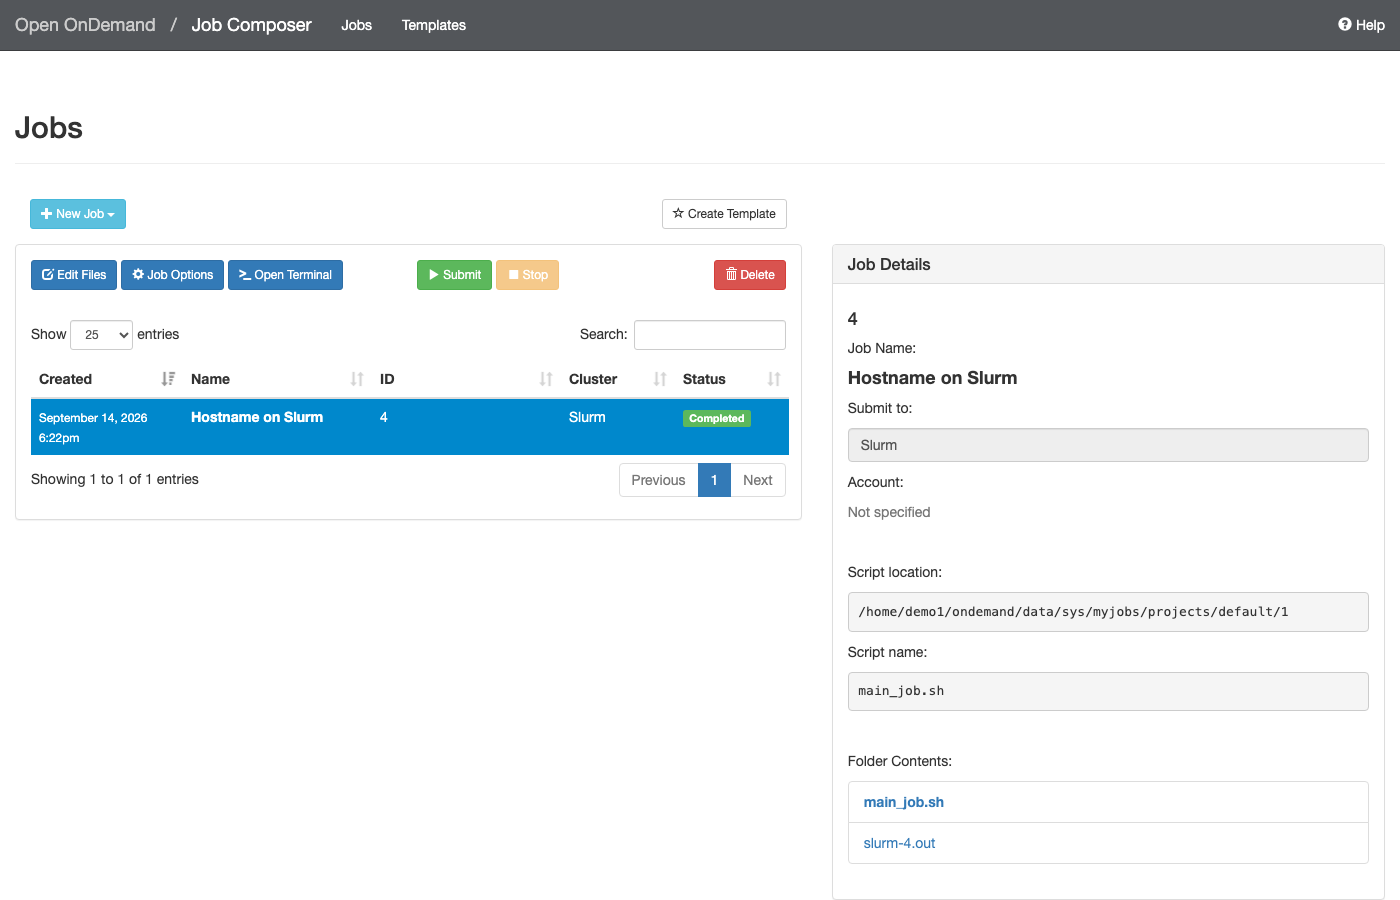
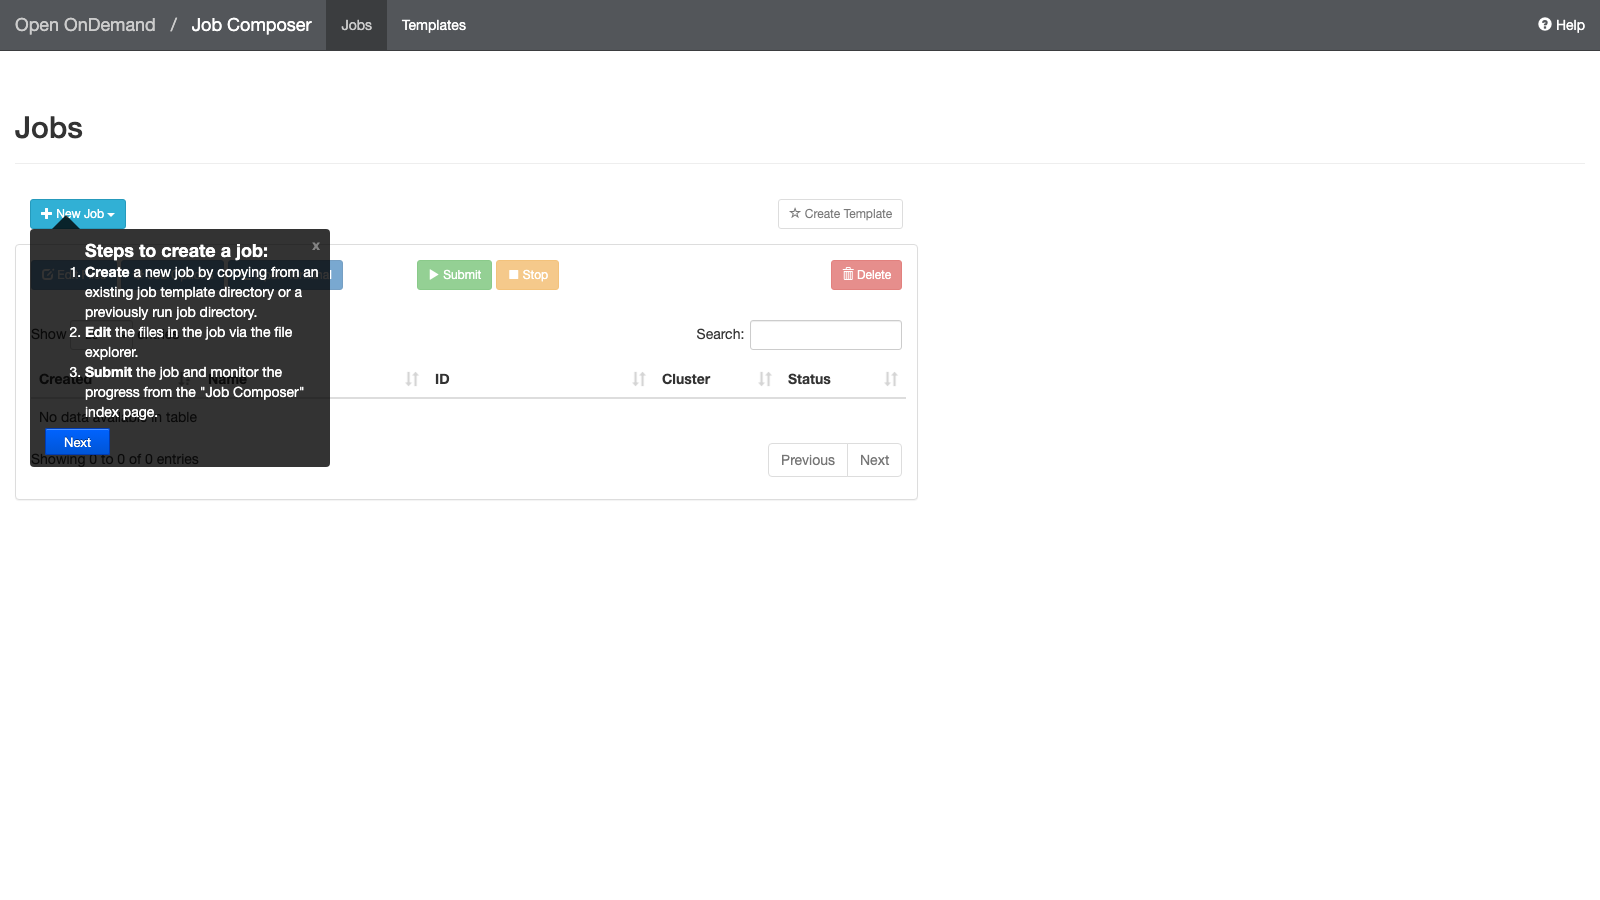
Open OnDemand: Service Inputs and Job Composer screenshots of the Slurm design, shorter Networks section
(cherry picked from commit 702f2a1c0138c3453ba6f938782f5bbe8e530582)

diff --git a/content/platform_services/open_ondemand/configuration.md b/content/platform_services/open_ondemand/configuration.md
@@ -40,11 +40,11 @@ These attributes never appear in the wizard, so set them in the `template_conten
 |---|---|---|
 | `ONEAPP_WORKER_IDLE_SECONDS` | `600` | Seconds the oldest worker stays without a job before it drains its Slurm node and the pool loses it. The worker role reads it. |
 | `ONEAPP_WORKER_DRAIN_SECONDS` | `600` | Seconds a drained worker waits for OneFlow to remove it before it returns its node to service. The worker role reads it. |
-| `ONEAPP_POOL_RANGE` | derived | Address range the portal accepts workers from, as `first-last`, which also bounds the number of Slurm nodes. Inside a service the portal derives it from its compute interface, the whole /24 around its address, so set it only for a compute network larger than a /24 or for a portal outside a OneFlow service. The range has to stay inside one /24, so on a larger compute network reserve a /24 slice of it for the workers and give that slice here. The portal role reads it. |
+| `ONEAPP_POOL_RANGE` | derived | Address range the portal accepts workers from, as `first-last`, which also bounds the number of Slurm nodes. Inside a service the portal derives it from its compute interface, the whole /24 around its address, so set it only for a compute network larger than a /24 or for a portal outside a OneFlow service. The range has to stay inside one /24, because a session publishes the address of the worker that starts with the first three octets of the range, so on a larger compute network reserve a /24 slice of it for the workers and give that slice here. The portal role reads it. |
 | `ONEAPP_SLURM_STATE_EXPORT` | `/export/slurm` | Export of the storage role that keeps the state of the Slurm controller, the munge key and the accounting dumps. The portal role mounts it. |
 | `ONEAPP_SLURM_DEF_MEM_PER_CPU` | `1024` | Memory in MB a job gets per core when it asks for none. The portal role reads it. |
 | `ONEAPP_SLURM_CONTROLLER_ENABLED` | `NO` | Add a second Slurm cluster of the site for batch jobs, see [An External Slurm Cluster](#an-external-slurm-cluster). The portal role reads it. |
-| `ONEAPP_SLURM_CONTROLLER_HOST` | empty | Compute address of that controller, required when the switch is on. The portal role reads it. |
+| `ONEAPP_SLURM_CONTROLLER_HOST` | empty | Address or host name of that controller, required when the switch is on. The portal role reads it. |
 | `ONEAPP_SLURM_TITLE` | `External Slurm` | Name of that cluster in the Job Composer and Active Jobs. The portal role reads it. |
 {.w-100}
 
@@ -54,7 +54,7 @@ The marketplace template gives every VM 2 vCPU and 4 GB of memory, 8 GB for the 
 
 ## Scaling the Worker Pool
 
-The pool scales on its own, see [How the Pool Grows and Shrinks]({{% relref "platform_services/open_ondemand/architecture/#how-the-pool-grows-and-shrinks" %}}). The workers publish `SLURM_PENDING`, the jobs waiting for a worker of their role, and OneFlow adds one VM when it stays above 0 for two periods of 30 seconds. The oldest worker drains its Slurm node once it has been without a job for `ONEAPP_WORKER_IDLE_SECONDS` with nothing pending, publishes `OLDEST_IDLE=1` while the node is drained and empty, and OneFlow removes it after two periods of 60 seconds. `ONEAPP_WORKER_DRAIN_SECONDS` undoes a drain OneFlow has not acted on, and the last worker of a role never drains. Both are [Advanced Attributes](#advanced-attributes) of the worker role. Raise `max_vms` of the worker role in the service template for a pool larger than six. To set the size by hand while the service is `RUNNING` (OneFlow refuses the command during the 300 second cooldown that follows every scale operation):
+The pool scales on its own, see [How the Pool Grows and Shrinks]({{% relref "platform_services/open_ondemand/architecture/#how-the-pool-grows-and-shrinks" %}}). The workers publish `SLURM_PENDING`, the jobs waiting for a worker of their role, and OneFlow adds one VM when it stays above 0 for two periods of 30 seconds. The oldest worker drains its Slurm node once it has been without a job for `ONEAPP_WORKER_IDLE_SECONDS` with nothing pending, publishes `OLDEST_IDLE=1` while the node is drained and empty, and OneFlow removes it after two periods of 60 seconds. `ONEAPP_WORKER_DRAIN_SECONDS` undoes a drain OneFlow has not acted on, and the last worker of a role never drains. Both are [Advanced Attributes](#advanced-attributes) of the worker role. Raise `max_vms` of the worker role in the service template for a pool larger than six. To set the size by hand while the service is `RUNNING` (OneFlow refuses the command during the cooldown that follows every scale operation, 300 seconds after a policy acts and 120 seconds after a scale by hand):
 
 ```shell
 oneflow scale <service_id> worker <cardinality>

diff --git a/content/platform_services/open_ondemand/architecture.md b/content/platform_services/open_ondemand/architecture.md
@@ -32,7 +32,11 @@ Every VM has two network interfaces:
 * **Management network**: reaches OneGate and the Internet. The portal publishes its web interface here, and the storage role downloads the software catalogue through it.
 * **Compute network**: reserved for the service. NFS, LDAP, the Slurm traffic between the controller and the nodes, the proxied sessions and the software cache run on it.
 
-The roles find each other without fixed addresses. OneFlow passes the compute address of the storage role to the portal and the workers, and the compute address of the portal to the workers, and the storage role asks OneGate which VM is the portal. A worker registers itself with the controller at boot, which learns the address of the node from the registration, and a reconciler on the portal deletes every node that no VM of the service claims, so a VM that is not part of the service never keeps a node in the cluster. The portal derives the worker address range from its own compute interface, the whole /24 around its address, which bounds how many nodes the cluster accepts and tells a session which of its addresses to publish, so keep that network reserved for the service. A compute network larger than a /24 needs an explicit `ONEAPP_POOL_RANGE`, described in [Configuration]({{% relref "platform_services/open_ondemand/configuration/#advanced-attributes" %}}).
+No address is fixed in advance. OneFlow hands each role the compute address of the roles it depends on, and the storage role asks OneGate which VM is the portal.
+
+A worker joins the Slurm cluster on its own at boot, and a reconciler on the portal removes the node of any VM that has left the service.
+
+The portal takes the whole /24 around its compute address as the worker range, so keep that network reserved for the service. A larger network needs `ONEAPP_POOL_RANGE`, described in [Configuration]({{% relref "platform_services/open_ondemand/configuration/#advanced-attributes" %}}).
 
 ## How a Session Runs
 
@@ -42,7 +46,7 @@ The roles find each other without fixed addresses. OneFlow passes the compute ad
 4. The application listens on a port of the worker and publishes the compute address of the worker, and the portal proxies the browser to it. Desktops run under a TurboVNC server on the worker and reach the browser through noVNC on the portal.
 5. Deleting the session cancels the job and reaching the session hours ends it, and either way Slurm stops every process of the job, so nothing of the session stays on the worker.
 
-A job is never requeued on another worker, because the browser connection points at the worker that started it. Every job goes through the accounting database, so **Active Jobs** lists the sessions and the **Job Composer** submits batch jobs of your own to the same cluster.
+A job is never requeued on another worker, because the browser connection points at the worker that started it. Every job is recorded in the accounting database, **Active Jobs** lists the sessions and the **Job Composer** submits batch jobs of your own to the same cluster.
 
 ## How the Pool Grows and Shrinks
 

diff --git a/content/platform_services/open_ondemand/operations.md b/content/platform_services/open_ondemand/operations.md
@@ -48,7 +48,7 @@ This terminates the VMs of every role and their non persistent disks. A persiste
 
 ## Limitations
 
-* The portal and the storage role are one VM each, with no high availability. A reboot of the portal keeps the running and the pending jobs, because the queue, the nodes and the munge key live on the storage export and the accounting database is dumped there every 30 minutes (measured on 16 September 2026, munge, MariaDB, `slurmdbd`, `slurmctld` and the timers were active 32 seconds after the reboot and both jobs were still in the queue). A portal that OneFlow replaces by a new VM has not been exercised, the workers follow the new address from the service document and the key and the state come back from the export, both untested.
+* The portal and the storage role are one VM each, with no high availability. A reboot of the portal keeps the running and the pending jobs, because the queue, the nodes and the munge key live on the storage export, and the accounting database is dumped there every 30 minutes for a replaced portal (measured on 16 September 2026, munge, MariaDB, `slurmdbd`, `slurmctld` and the timers were active 32 seconds after the reboot and both jobs were still in the queue). A portal that OneFlow replaces by a new VM has not been exercised, the workers follow the new address from the service document and the key and the state come back from the export, both untested.
 * The state of the Slurm controller is on NFS, so the storage VM has to stay reachable from the portal. A 33 second pause of the NFS server left `sinfo` answering, the controller active and the running job untouched, and a longer outage has not been measured.
 * Every session and every Job Composer job runs on the cluster of the service. A Slurm Cluster of the site can be attached as a second target for batch jobs, see [Configuration]({{% relref "platform_services/open_ondemand/configuration/#batch-jobs-with-slurm" %}}).
 * GPU workers are prepared but untested.

diff --git a/content/platform_services/open_ondemand/monitoring_and_troubleshooting.md b/content/platform_services/open_ondemand/monitoring_and_troubleshooting.md
@@ -58,7 +58,7 @@ On the workers, `journalctl -t ood-slurm-elastic` shows what the elastic loop pu
 * **The portal cannot mount the home.** The storage role grants it root on the export through OneGate within about 20 seconds of the portal VM existing. A portal still waiting after three minutes points at OneGate.
 * **The portal cannot mount the Slurm state.** The storage role exports `/export/slurm` to the portal address in the same way, and a portal still waiting after three minutes stops with `could not mount` and the export in the message.
 * **A worker never receives the munge key.** The portal publishes it as `SLURM_MUNGE_KEY` through OneGate, and a worker that has waited 180 seconds for it stops with `the portal has not published SLURM_MUNGE_KEY after 180s`, so check the portal first.
-* **The wrong address range.** The portal derives the worker range from its compute interface, the /24 around its address, so a compute network larger than that needs `ONEAPP_POOL_RANGE` set to a /24 slice of it, and a standalone portal needs it to match the network. The range also bounds the number of Slurm nodes. A range wider than one /24 stops the portal with `ONEAPP_POOL_RANGE has to be inside a single /24` in `/var/log/ood-appliance-configure.log`.
+* **The wrong address range.** The portal derives the worker range from its compute interface, the /24 around its address, so a compute network larger than that needs `ONEAPP_POOL_RANGE` set to a /24 slice of it, and a standalone portal needs it to match the network. The range also bounds the number of Slurm nodes, and a range that does not read as `first-last` stops the portal with `ONEAPP_POOL_RANGE must be "first-last"` in `/var/log/ood-appliance-configure.log`.
 
 ## A Session Does Not Start
 
